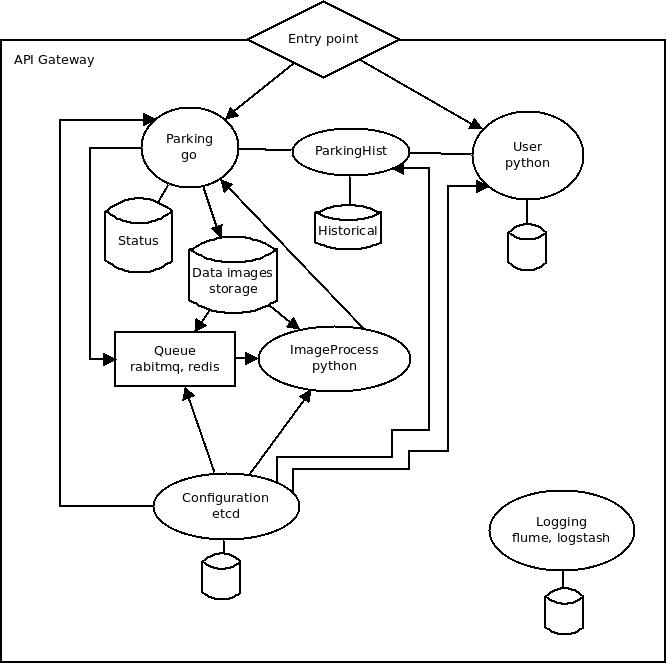
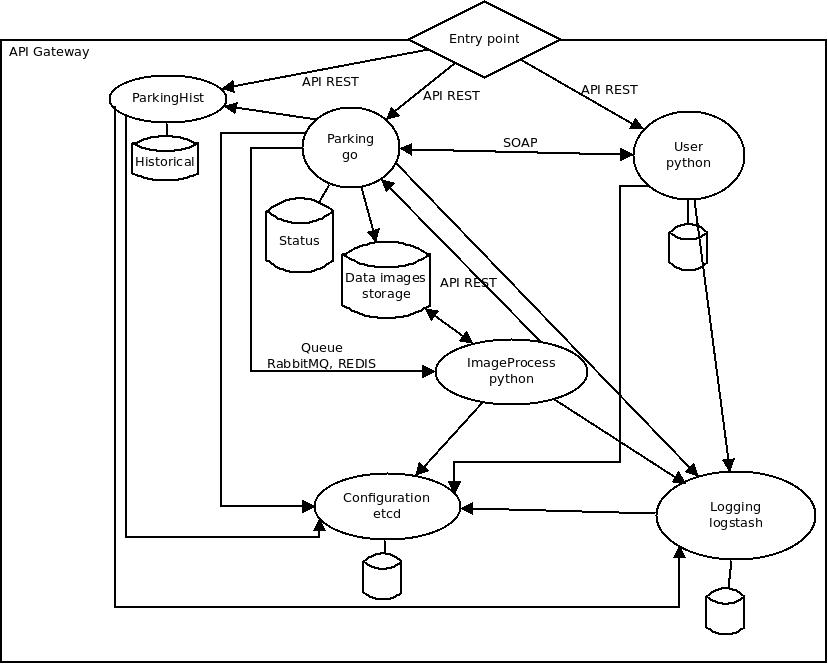
Documentation improvement

diff --git a/README.md b/README.md
@@ -9,12 +9,13 @@ On the other hand, users of this type of parking have an mobile application to v
 The infrastructure on server side it is composed by several services to be ready to scale the system and include more functionalities if it's needed in a future. Besides, separating functionalities we get improve the security of the system.
 
 The first approximation of the infrastructure consists of multiple services as we describe below:
-    * Parking: manage all parking lots and them states. This service is called by users and sensors so it has to be as quick as possible responding all requests so Go Lang could be a good language to do that.
-    * User: manage users and permissions of system users. 
-    * ParkingHist: is the parking historical states and the connection to users while they have parked.
-    * ImageProcess: if sensors get a parking lot occupied without an accreditation, they take a picture of the vehicle and this picture is been had to process to get information. This process could be take a lot of time so data come through a queue.
-    * Configuration: this cloud system needs a configuration service to be able to make changes as quick as possible.
-    * Logging: to improve all system and check possible problems of the system a logging system is needed. This service is connected to all services, as configuration, to store and process all logs.
+ * API Gateway: as a cloud system, an API Gateway is needed to be able to change the cloud without changing applications which connect to this cloud.
+ * Parking: manage all parking lots and them states. This service is called by users and sensors so it has to be as quick as possible responding all requests so Go Lang could be a good language to do an API REST which receive all request. When a parking is occupied this API receives the ID of the parking lot and the ID of the user, if any, and check if the user ID exists. To do that it is needed a relation between this microservice an user microservice. We have chosen SOAP as the protocol to communicate both microservices due to both microservices need objects of the other. In addition, any change of parking lot status must be recorded in other database (ParkingHist). 
+ * ParkingHist: it is the parking historical states. Every change of parking lot status must be recorded to be able to know parking lot occupancy or incidences for reporting or improve the system.
+ * User: manage users and permissions. These users could be administrators or clients. Every connection to this cloud have to be authenticated. 
+ * ImageProcess: if sensors get a parking lot occupied without an accreditation (user ID), they take a picture of the vehicle and this picture is been had to process to get information like a car identification. This process could be take a lot of time so data come through a queue and after the process ends, the system has to upgrade the parking status and the parking historical.
+ * Configuration: this cloud system needs a configuration service to be able to make changes as quick as possible.
+ * Logging: to improve all system and check possible problems of the system a logging system is needed. This service is connected to all services, as configuration, to store and process all logs.
 
 All services have to be in a same entry point. To do that, the system needs an API gateway which handles the outside requests without have to change URLs. Depend on demand and users or sensors number, we could divide this API gateway to two APIs, one for users and the other for sensors.
 
